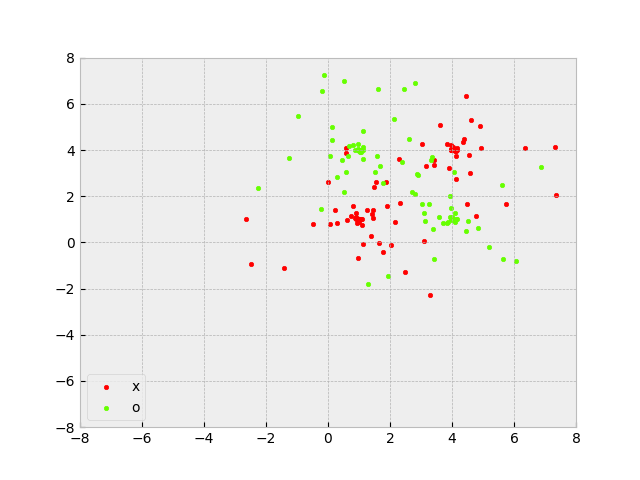
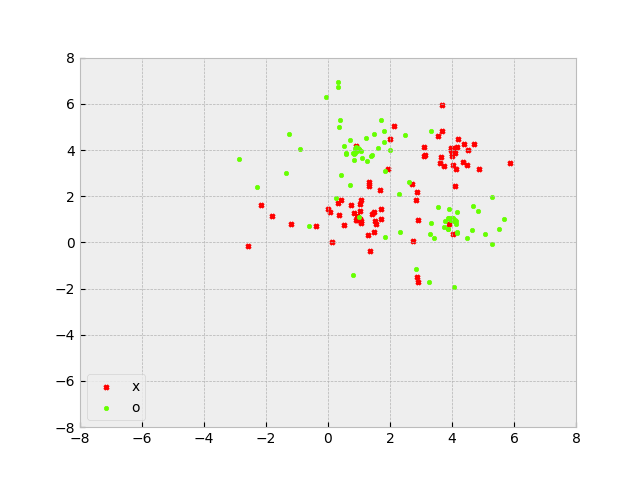
made power an input for generate clusters

diff --git a/datasets/random_clusters.py b/datasets/random_clusters.py
@@ -9,7 +9,7 @@ def elem_add(a, b):
     assert len(a) == len(b), "different lengths"
     return [a[i]+b[i] for i in range(len(a))]
 
-def generate_clusters(x_centers, o_centers, num_points):
+def generate_clusters(x_centers, o_centers, p, num_points):
     # num_points is number of extra points for each type
     # total number of added points will be num_points * 2
     if type(x_centers) != list:
@@ -30,7 +30,7 @@ def generate_clusters(x_centers, o_centers, num_points):
         o_center = o_centers[r.randint(0,len(o_centers)-1)]
 
         for i in range(2):
-            dist_scalar = (r.randint(1,100)**3) / 1000000
+            dist_scalar = (r.randint(1,100)**p) / 100**p
             dist = largest_dist * dist_scalar
             ang = m.pi*r.randint(0,360) / 180
             translation = (dist*m.cos(ang), dist*m.sin(ang))
@@ -41,11 +41,11 @@ def generate_clusters(x_centers, o_centers, num_points):
     
     return points
 
-points = generate_clusters([(1,1), (4,4)], [(1,4), (4,1)], 100)
+points = generate_clusters([(1,1), (4,4)], [(1,4), (4,1)], 3, 100)
 plt.style.use('bmh')
 #print([p[0] for p in points['x']])
-plt.scatter([p[0] for p in points['x']], [p[1] for p in points['x']], color='red',s=10, label='x')
-plt.scatter([p[0] for p in points['o']], [p[1] for p in points['o']], color='#66ff00',s=10,label='o')
+plt.scatter([p[0] for p in points['x']], [p[1] for p in points['x']], color='red',s=10, marker='x',label='x')
+plt.scatter([p[0] for p in points['o']], [p[1] for p in points['o']], color='#66ff00',s=10,marker='o',label='o')
 plt.xlim(-8, 8)
 plt.ylim(-8, 8)
 plt.legend(loc='lower left')
